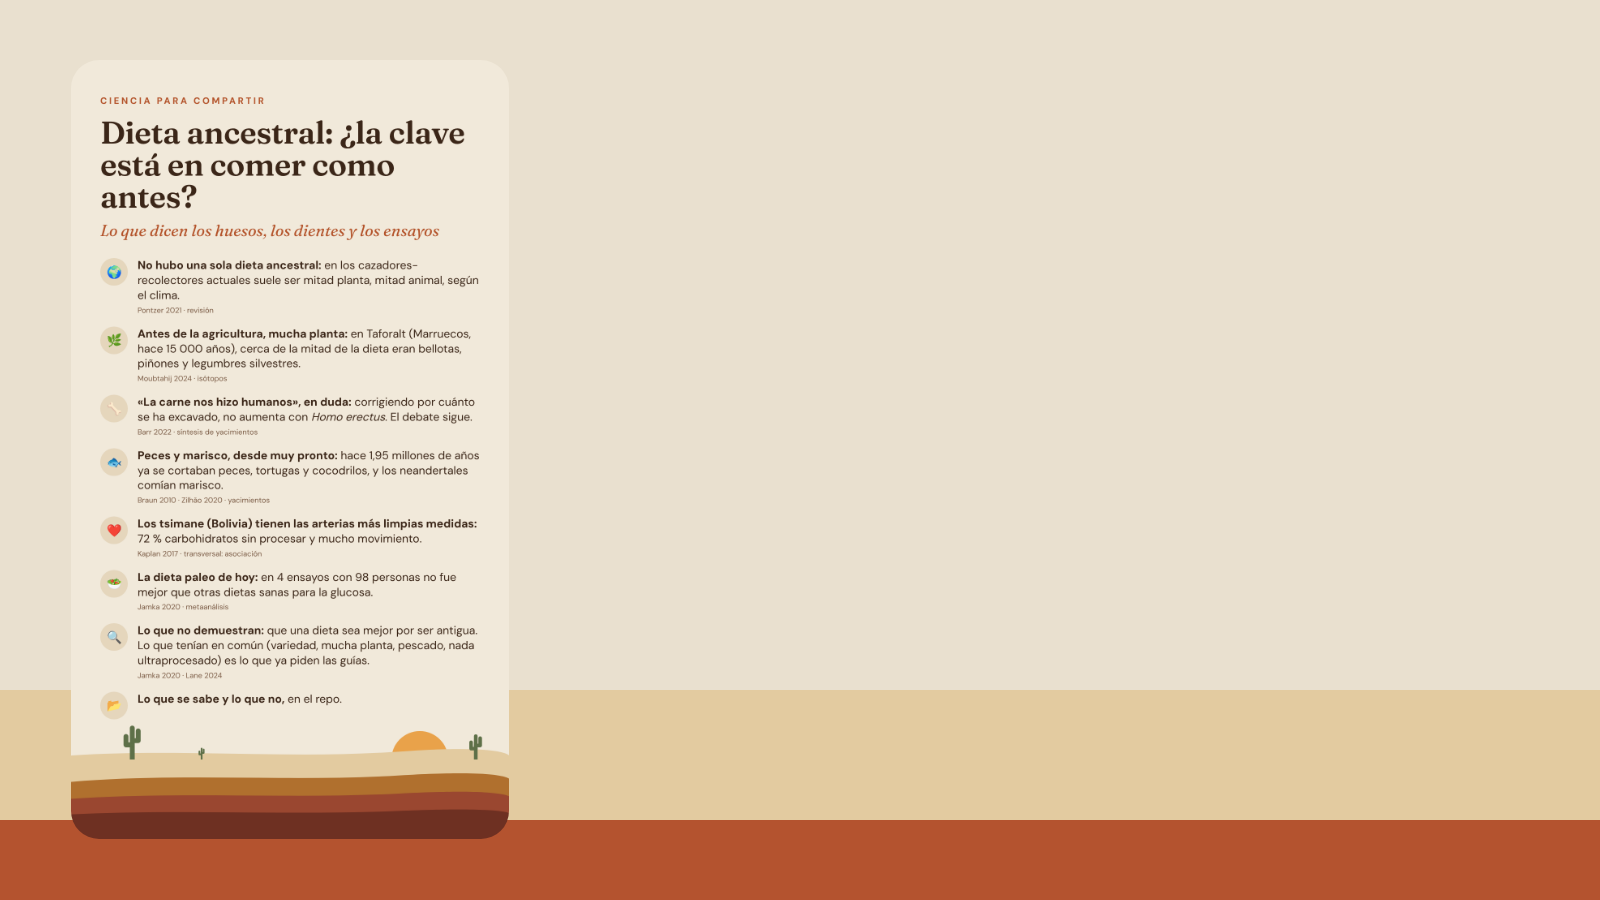
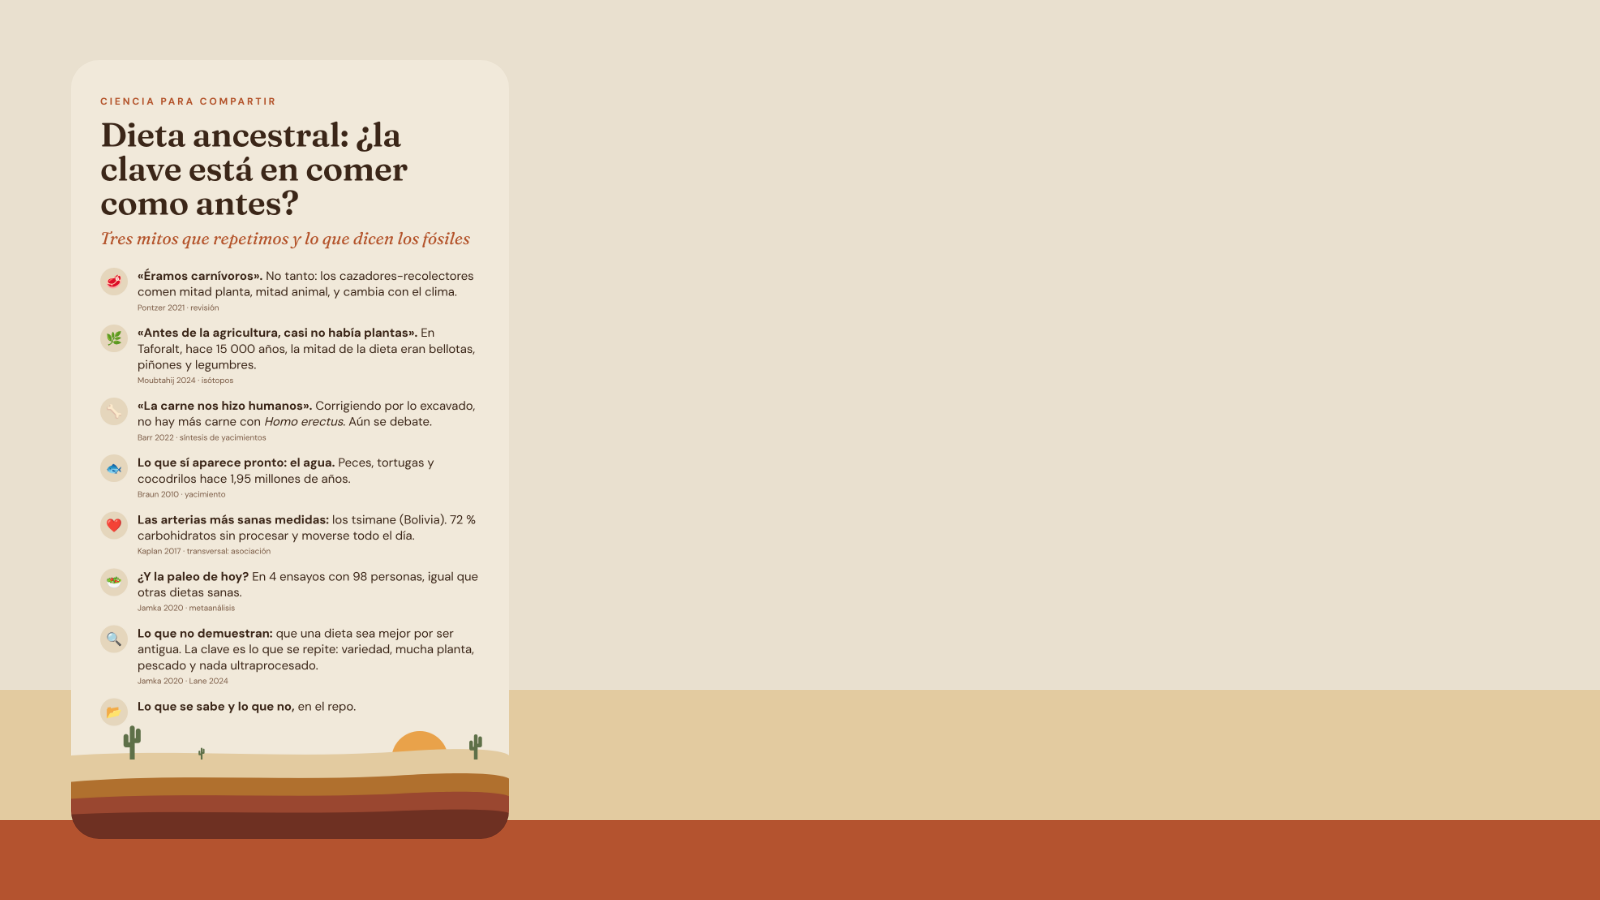
Dieta ancestral: story en formato mito contra realidad
Claude-Session: https://claude.ai/code/session_01HqCh3LGbMBbNqQUqGRW9eR

Changed region(s): [[0.0625, 0.0933, 0.3125, 0.8089]]

diff --git a/tools/story_dieta_ancestral.py b/tools/story_dieta_ancestral.py
@@ -8,21 +8,21 @@ STORIES = {
     "es": {
         "eyebrow": "Ciencia para compartir",
         "title": "Dieta ancestral: ¿la clave está en comer como antes?",
-        "sub": "Lo que dicen los huesos, los dientes y los ensayos",
+        "sub": "Tres mitos que repetimos y lo que dicen los fósiles",
         "items": [
-            ("🌍", "**No hubo una sola dieta ancestral:** en los cazadores-recolectores actuales suele ser mitad planta, mitad animal, según el clima.",
+            ("🥩", "**«Éramos carnívoros».** No tanto: los cazadores-recolectores comen mitad planta, mitad animal, y cambia con el clima.",
              "Pontzer 2021 · revisión"),
-            ("🌿", "**Antes de la agricultura, mucha planta:** en Taforalt (Marruecos, hace 15 000 años), cerca de la mitad de la dieta eran bellotas, piñones y legumbres silvestres.",
+            ("🌿", "**«Antes de la agricultura, casi no había plantas».** En Taforalt, hace 15 000 años, la mitad de la dieta eran bellotas, piñones y legumbres.",
              "Moubtahij 2024 · isótopos"),
-            ("🦴", "**«La carne nos hizo humanos», en duda:** corrigiendo por cuánto se ha excavado, no aumenta con *Homo erectus*. El debate sigue.",
+            ("🦴", "**«La carne nos hizo humanos».** Corrigiendo por lo excavado, no hay más carne con *Homo erectus*. Aún se debate.",
              "Barr 2022 · síntesis de yacimientos"),
-            ("🐟", "**Peces y marisco, desde muy pronto:** hace 1,95 millones de años ya se cortaban peces, tortugas y cocodrilos, y los neandertales comían marisco.",
-             "Braun 2010 · Zilhão 2020 · yacimientos"),
-            ("❤", "**Los tsimane (Bolivia) tienen las arterias más limpias medidas:** 72 % carbohidratos sin procesar y mucho movimiento.",
+            ("🐟", "**Lo que sí aparece pronto: el agua.** Peces, tortugas y cocodrilos hace 1,95 millones de años.",
+             "Braun 2010 · yacimiento"),
+            ("❤", "**Las arterias más sanas medidas:** los tsimane (Bolivia). 72 % carbohidratos sin procesar y moverse todo el día.",
              "Kaplan 2017 · transversal: asociación"),
-            ("🥗", "**La dieta paleo de hoy:** en 4 ensayos con 98 personas no fue mejor que otras dietas sanas para la glucosa.",
+            ("🥗", "**¿Y la paleo de hoy?** En 4 ensayos con 98 personas, igual que otras dietas sanas.",
              "Jamka 2020 · metaanálisis"),
-            ("🔍", "**Lo que no demuestran:** que una dieta sea mejor por ser antigua. Lo que tenían en común (variedad, mucha planta, pescado, nada ultraprocesado) es lo que ya piden las guías.",
+            ("🔍", "**Lo que no demuestran:** que una dieta sea mejor por ser antigua. La clave es lo que se repite: variedad, mucha planta, pescado y nada ultraprocesado.",
              "Jamka 2020 · Lane 2024"),
             ("📂", "**Lo que se sabe y lo que no,** en el repo.", ""),
         ],
